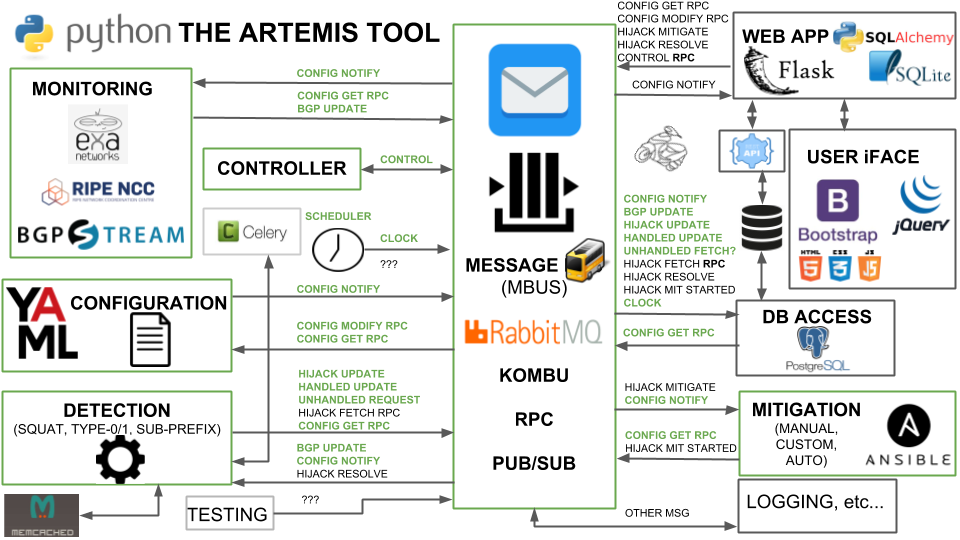
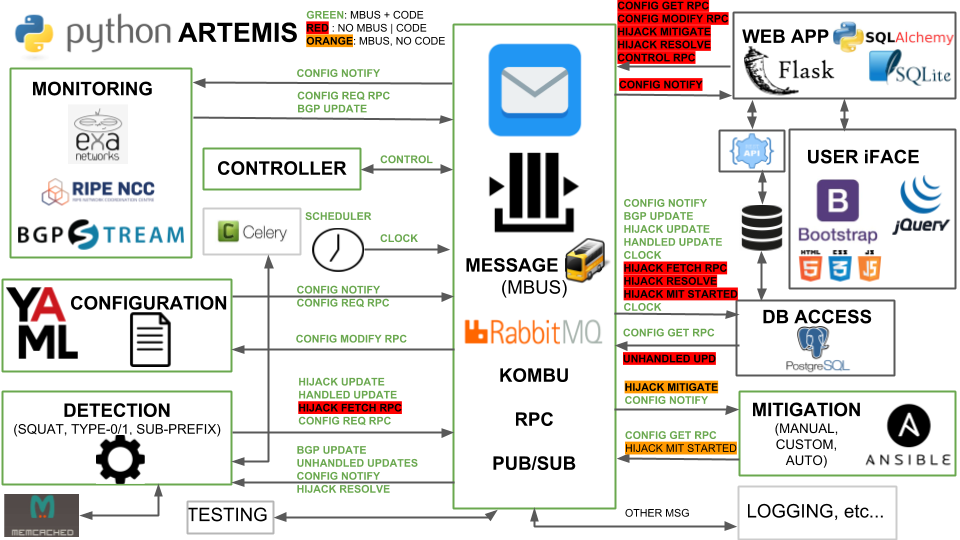
updates in arch and README

diff --git a/README.md b/README.md
@@ -1,8 +1,12 @@
 # ARTEMIS
 
+## The Tool
+
 ARTEMIS is a defense approach versus BGP prefix hijacking attacks (a) based on accurate and fast detection operated by the AS itself, leveraging the pervasiveness of publicly available BGP monitoring services and their recent shift towards real-time streaming, thus (b) enabling flexible and fast mitigation of hijacking events. Compared to existing approaches/tools, ARTEMIS combines characteristics desirable to network operators such as comprehensiveness, accuracy, speed, privacy, and flexibility. With the ARTEMIS approach, prefix hijacking can be neutralized within a minute!
 
 You can read more on INSPIRE Group ARTEMIS webpage: http://www.inspire.edu.gr/artemis.
+
+## Features
 
 The current version of ARTEMIS as a tool includes the following features:
 
@@ -13,19 +17,28 @@ The current version of ARTEMIS as a tool includes the following features:
 * Support for both IPv4 and IPv6 prefixes.
 * Modularity/extensibility by design.
 
-*Note*: All current development is taking place on the kombu branch, which contains a significant refactoring of the tool's code. The master branch will be up-to-date by September the 13th, 2018.
+*Note*: All current development is taking place on the kombu branch, which is a significant refactoring of the tool's code. The master branch will be up-to-date by September the 13th, 2018.
 
-## ARTEMIS architecture
+## Architecture (current)
 
 ![Architecture](docs/images/modular_artemis_arch.png)
 
 ## Getting Started
 
-ARTEMIS is built as a multi-container Docker application. The following instructions will get you a containerized copy of the ARTEMIS tool up and running on your local machine for testing purposes. For a detailed view of the ARTEMIS system architecture please check [here](https://docs.google.com/presentation/d/104ENSvv7c-4jZ14BDAAqvK8bSUIWHV7g0TiNqT71J4s/edit?usp=sharing).
+ARTEMIS is built as a multi-container Docker application. The following instructions will get you a containerized copy of the ARTEMIS tool up and running on your local machine for testing purposes.
+
+## Technical requirements (TBD)
+
+* CPU: ...
+* RAM: ...
+* HDD: ...
+* NETWORK: ...
+* OS: Ubuntu Linux 16.04+
 
 ## How to run
 
-First, if not already installed, follow the instructions [here](https://docs.docker.com/install/linux/docker-ce/ubuntu/#install-docker-ce) to install the latest version of docker, and [here](https://docs.docker.com/compose/install/#install-compose) to install the docker-compose tool for supporting multi-container Docker applications.
+First, if not already installed, follow the instructions [here](https://docs.docker.com/install/linux/docker-ce/ubuntu/#install-docker-ce) to install the latest version of 
+the docker tool for managing containers, and [here](https://docs.docker.com/compose/install/#install-compose) to install the docker-compose tool for supporting multi-container Docker applications.
 
 If you would like to run docker without using sudo, please add the local user to the default docker group:
 
@@ -38,7 +51,7 @@ NOTE: THE FOLLOWING INSTRUCTIONS ARE DEPRECATED: TO BE REPLACED WITH DOCKER-COMP
 If you do not have access to the inspiregroup/artemis-tool image you can build your own by running:
 
 ```
-docker build -t inspiregroup/artemis-tool .
+docker-compose build
 ```
 after you have entered the root folder of the cloned artermis repo.
 
@@ -48,52 +61,32 @@ docker login
 docker pull inspiregroup/artemis-tool
 ```
 
-Then, create a directory that includes the `config.yaml`, `webapp.cfg` and `logging.json` configuration files, after configuring them accordingly (see samples).
-
-The application can be run in three different modes: `prod`, `dev` and `testing`. By default, the `dev` mode is selected, and you can modify that by having an environment variable set like this:
-
+Before starting ARTEMIS, you can configure the web application (used to configure ARTEMIS and view its state), by editing the following file (TBD):
 ```
-export FLASK_CONFIGURATION=prod
+TBD
 ```
 
-Then, you need to run the container with the following command:
-
+You can start ARTEMIS as a multic-container application by running:
 ```
-docker run --rm -ti -p 5000:5000 -e FLASK_CONFIGURATION=prod --expose 5000 --name artemis -v absolute/path/to/config/directory:/root/configs inspiregroup/artemis-tool
-```
-
-Fields:
-```
--p: Sets a proxy that maps host's PORT to container's PORT (in this example host's 5000 to container's 5000)
---expose: Exposes from the container the PORT ARTEMIS is running on (specified in `webapp.cfg`)
--ti: Makes container interactive
--v src:dst: Creates a volume in dst path on the container that is a copy of src directory on host
--e name:value: Creates an environment variable on the container to set up the mode of the application.
+docker-compose up
 ```
 
 You can now control and view ARTEMIS on <WEBAPP_HOST>:<WEBAPP_PORT>.
 
-Note that to gracefully terminate ARTEMIS and all its sub-threads you can use the following command:
+Note that to gracefully terminate ARTEMIS and all its services you can use the following commands:
 
 ```
-docker stop inspiregroup/artemis-tool
+Ctrl+C # on the terminal running ARTEMIS
+docker-compose down # afterwards, same terminal
 ```
-or
-```
-kill <ARTEMIS_PID>
-```
-using the SIGTERM signal.
-
-Note: to run the mininet demo (optional) please follow the instructions under mininet-demo/README.md
-
 
 ## SSL/TLS Support
 
-The following process, based on Flask-accessed certificates/keys, is to be used only in testing environments.
+The following process, based on Flask-accessed certificates/keys, is to be used only termporarily in testing environments.
 
 In production, a scalable nginx/apache-based reverse proxy will be used to terminate SSL connections (TBD).
 
-For testing, simply configure the following in configs/webapp.cfg:
+For testing, simply configure the following in the webapp configuration file (TBD):
 ```
 WEBAPP_KEY = '<path_to_key_file>'
 WEBAPP_CRT = '<path_to_cert_file>'
@@ -119,30 +112,11 @@ systemctl restart docker
 ## Contributing
 
 ### Implementing additional Monitors (taps)
-
-
-NOTE: THE FOLLOWING INSTRUCTIONS ARE DEPRECATED: TO BE REPLACED WITH RABBITMQ AND TAPS INSTRUCTIONS
-
-In order to add new monitors you need to send the BGP Update messages to the GRPC Server which runs on port 50051. The .proto file is provided and you only need to compile and use the `queryMformat` function with the provided format:
-
 ```
-message Community {
-  int32 asn = 1;
-  int32 value = 2;
-}
-
-message MformatMessage {
-  string service = 1;
-  string type = 2;
-  string prefix = 3;
-  repeated int32 as_path = 4;
-  repeated Community communities = 5;
-  double timestamp = 6;
-}
+TBD
 ```
 
-For example take a look at the `taps/exabgp_client.py` which implements the python GRPC Client or `taps/ripe_ris.js` which implements the javascript GRPC Client. Please edit only the code in the taps folder.
-Note that if you need to create a new M-format you need to follow the instructions on the [GRPC website](https://grpc.io/).
+For example take a look at the `backend/taps/exabgp_client.py` which implements the exaBGP monitor publisher or `backend/taps/ripe_ris.js` which implements the RIPE RIS monitor publisher. Please edit only the code in the taps folder.
 
 ## Versioning
 TBD (for now working on the bleeding edge of the master branch, version tags to-be-released)
@@ -151,12 +125,11 @@ TBD (for now working on the bleeding edge of the master branch, version tags to-
 * Dimitrios Mavrommatis, FORTH-ICS
 * Petros Gigis, FORTH-ICS
 * Vasileios Kotronis, FORTH-ICS
-* Pavlos Sermpezis, FORTH-ICS
 
 ## License
-TBD (closed source until further notice)
+TBD (closed source until further notice; considering BSD-3 license but not definitive yet)
 
-## Acknowledgments
+## Acknowledgements
 This work is supported by the following sources:
 * European Research Council (ERC) grant agreement no. 338402 (NetVolution Project)
 * RIPE NCC Community Projects Fund
